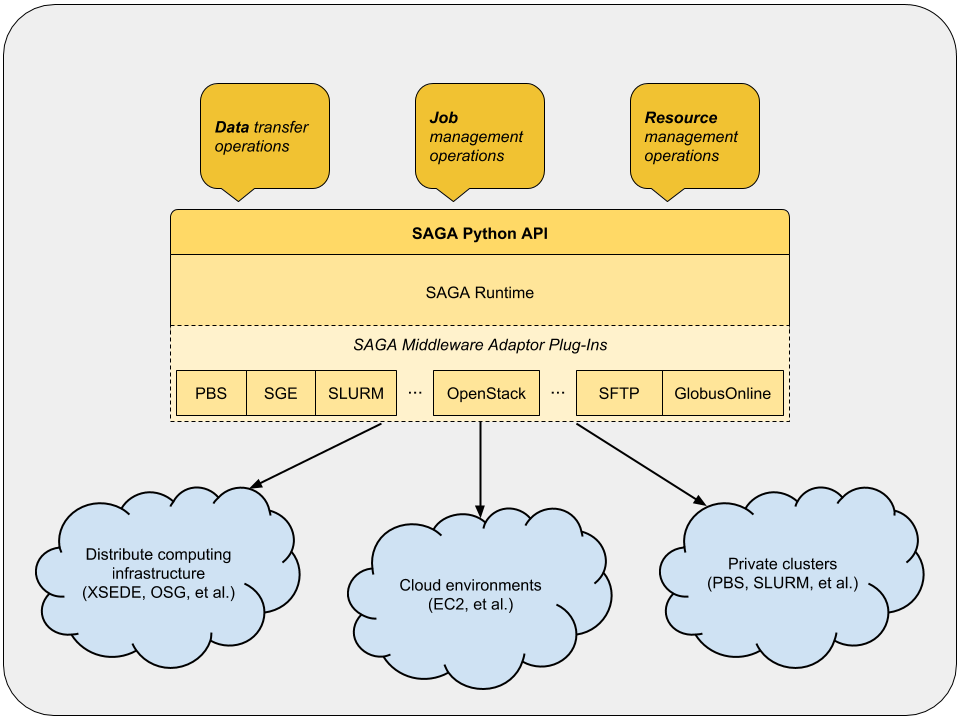
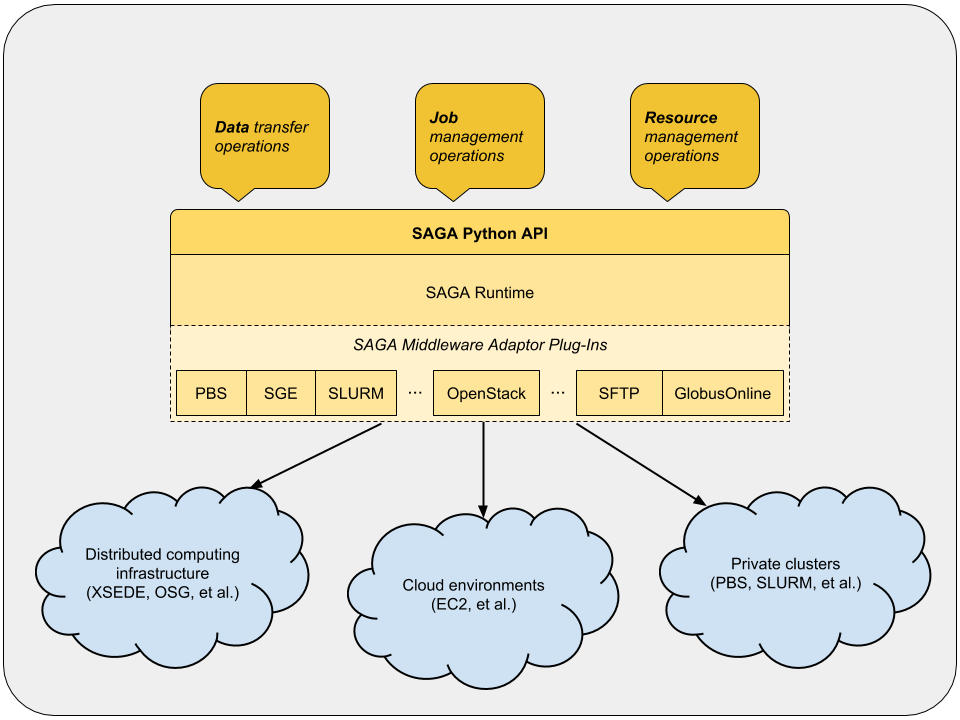
updated RADICAL-Pilot figure

diff --git a/index.html b/index.html
@@ -141,7 +141,7 @@ reach the next level of scale and functionality.</p>
                        Github Project </a></p>
                 </div>
                 <div class="col-lg-5 col-sm-pull-6 col-sm-6">
-                    <a href="img/saga-pilot.png"><img class="img-responsive" src="img/saga-pilot.png" alt=""></a>
+                    <a href="img/radical-pilot.png"><img class="img-responsive" src="img/radical-pilot.png" alt=""></a>
                 </div>
             </div>
         </div>
